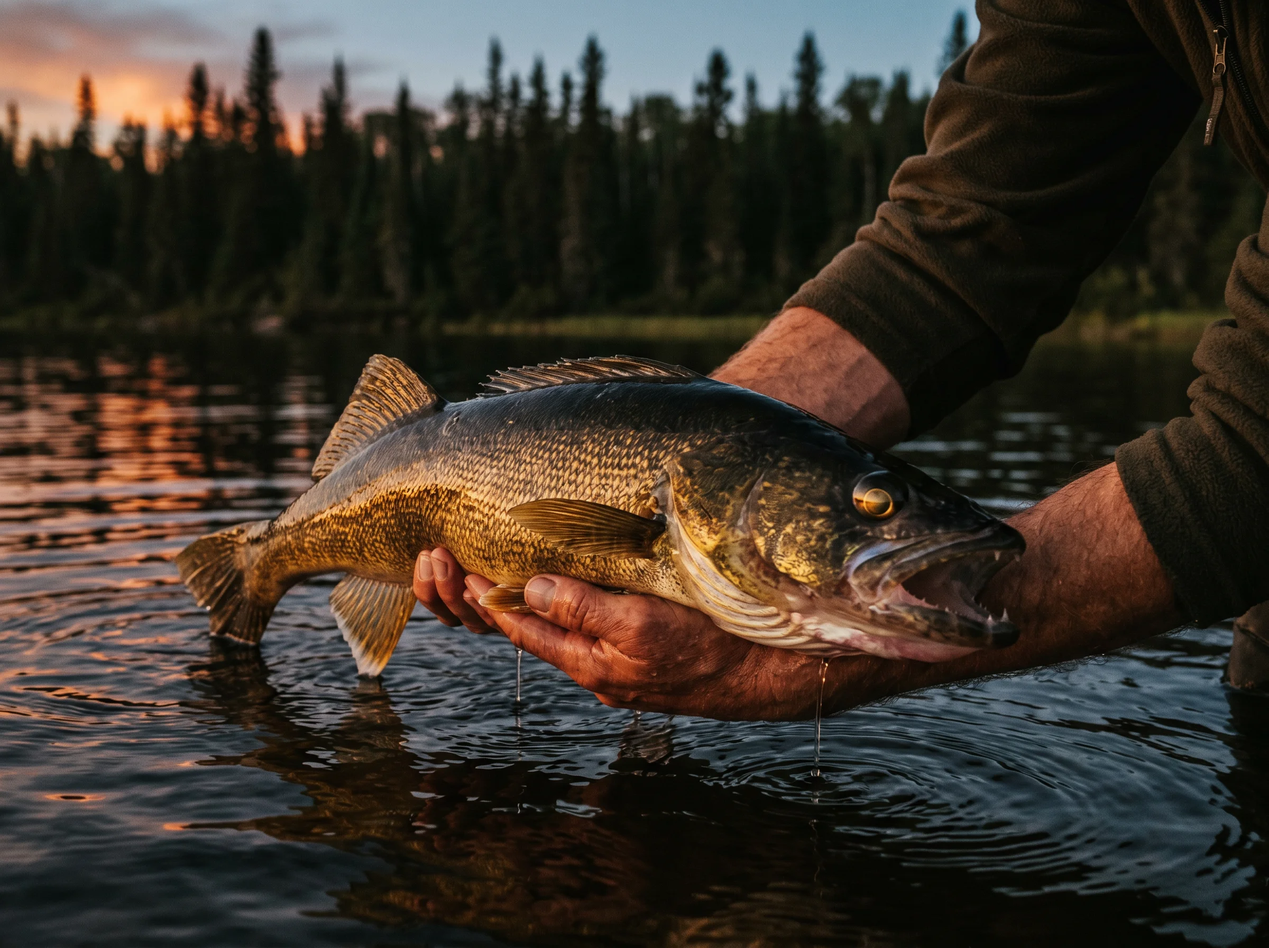
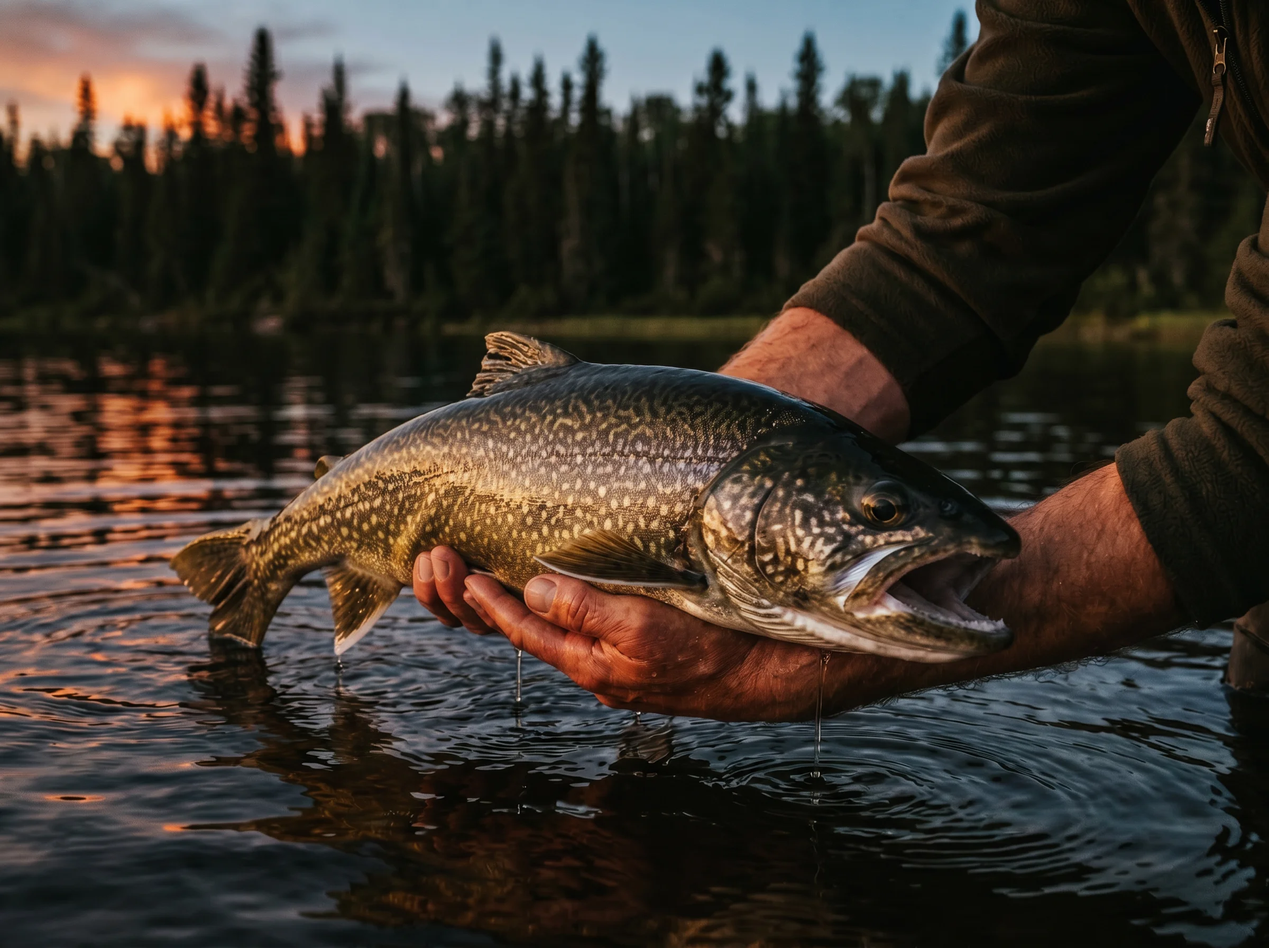
fix: swap walleye trophy photo for a laker (no walleye in the lake) + Depth stat now shows '125+ Feet'

diff --git a/client/src/pages/CostiganLake.tsx b/client/src/pages/CostiganLake.tsx
@@ -381,7 +381,7 @@ export default function CostiganLake() {
               </p>
               <div className="grid grid-cols-2 gap-4">
                 {[
-                  { label: "Depth", value: "Deep Structure" },
+                  { label: "Depth", value: "125+ Feet" },
                   { label: "Method", value: "Jigging & Trolling" },
                   { label: "Boat", value: "Fully Rigged" },
                   { label: "Season", value: "Open Water" },
